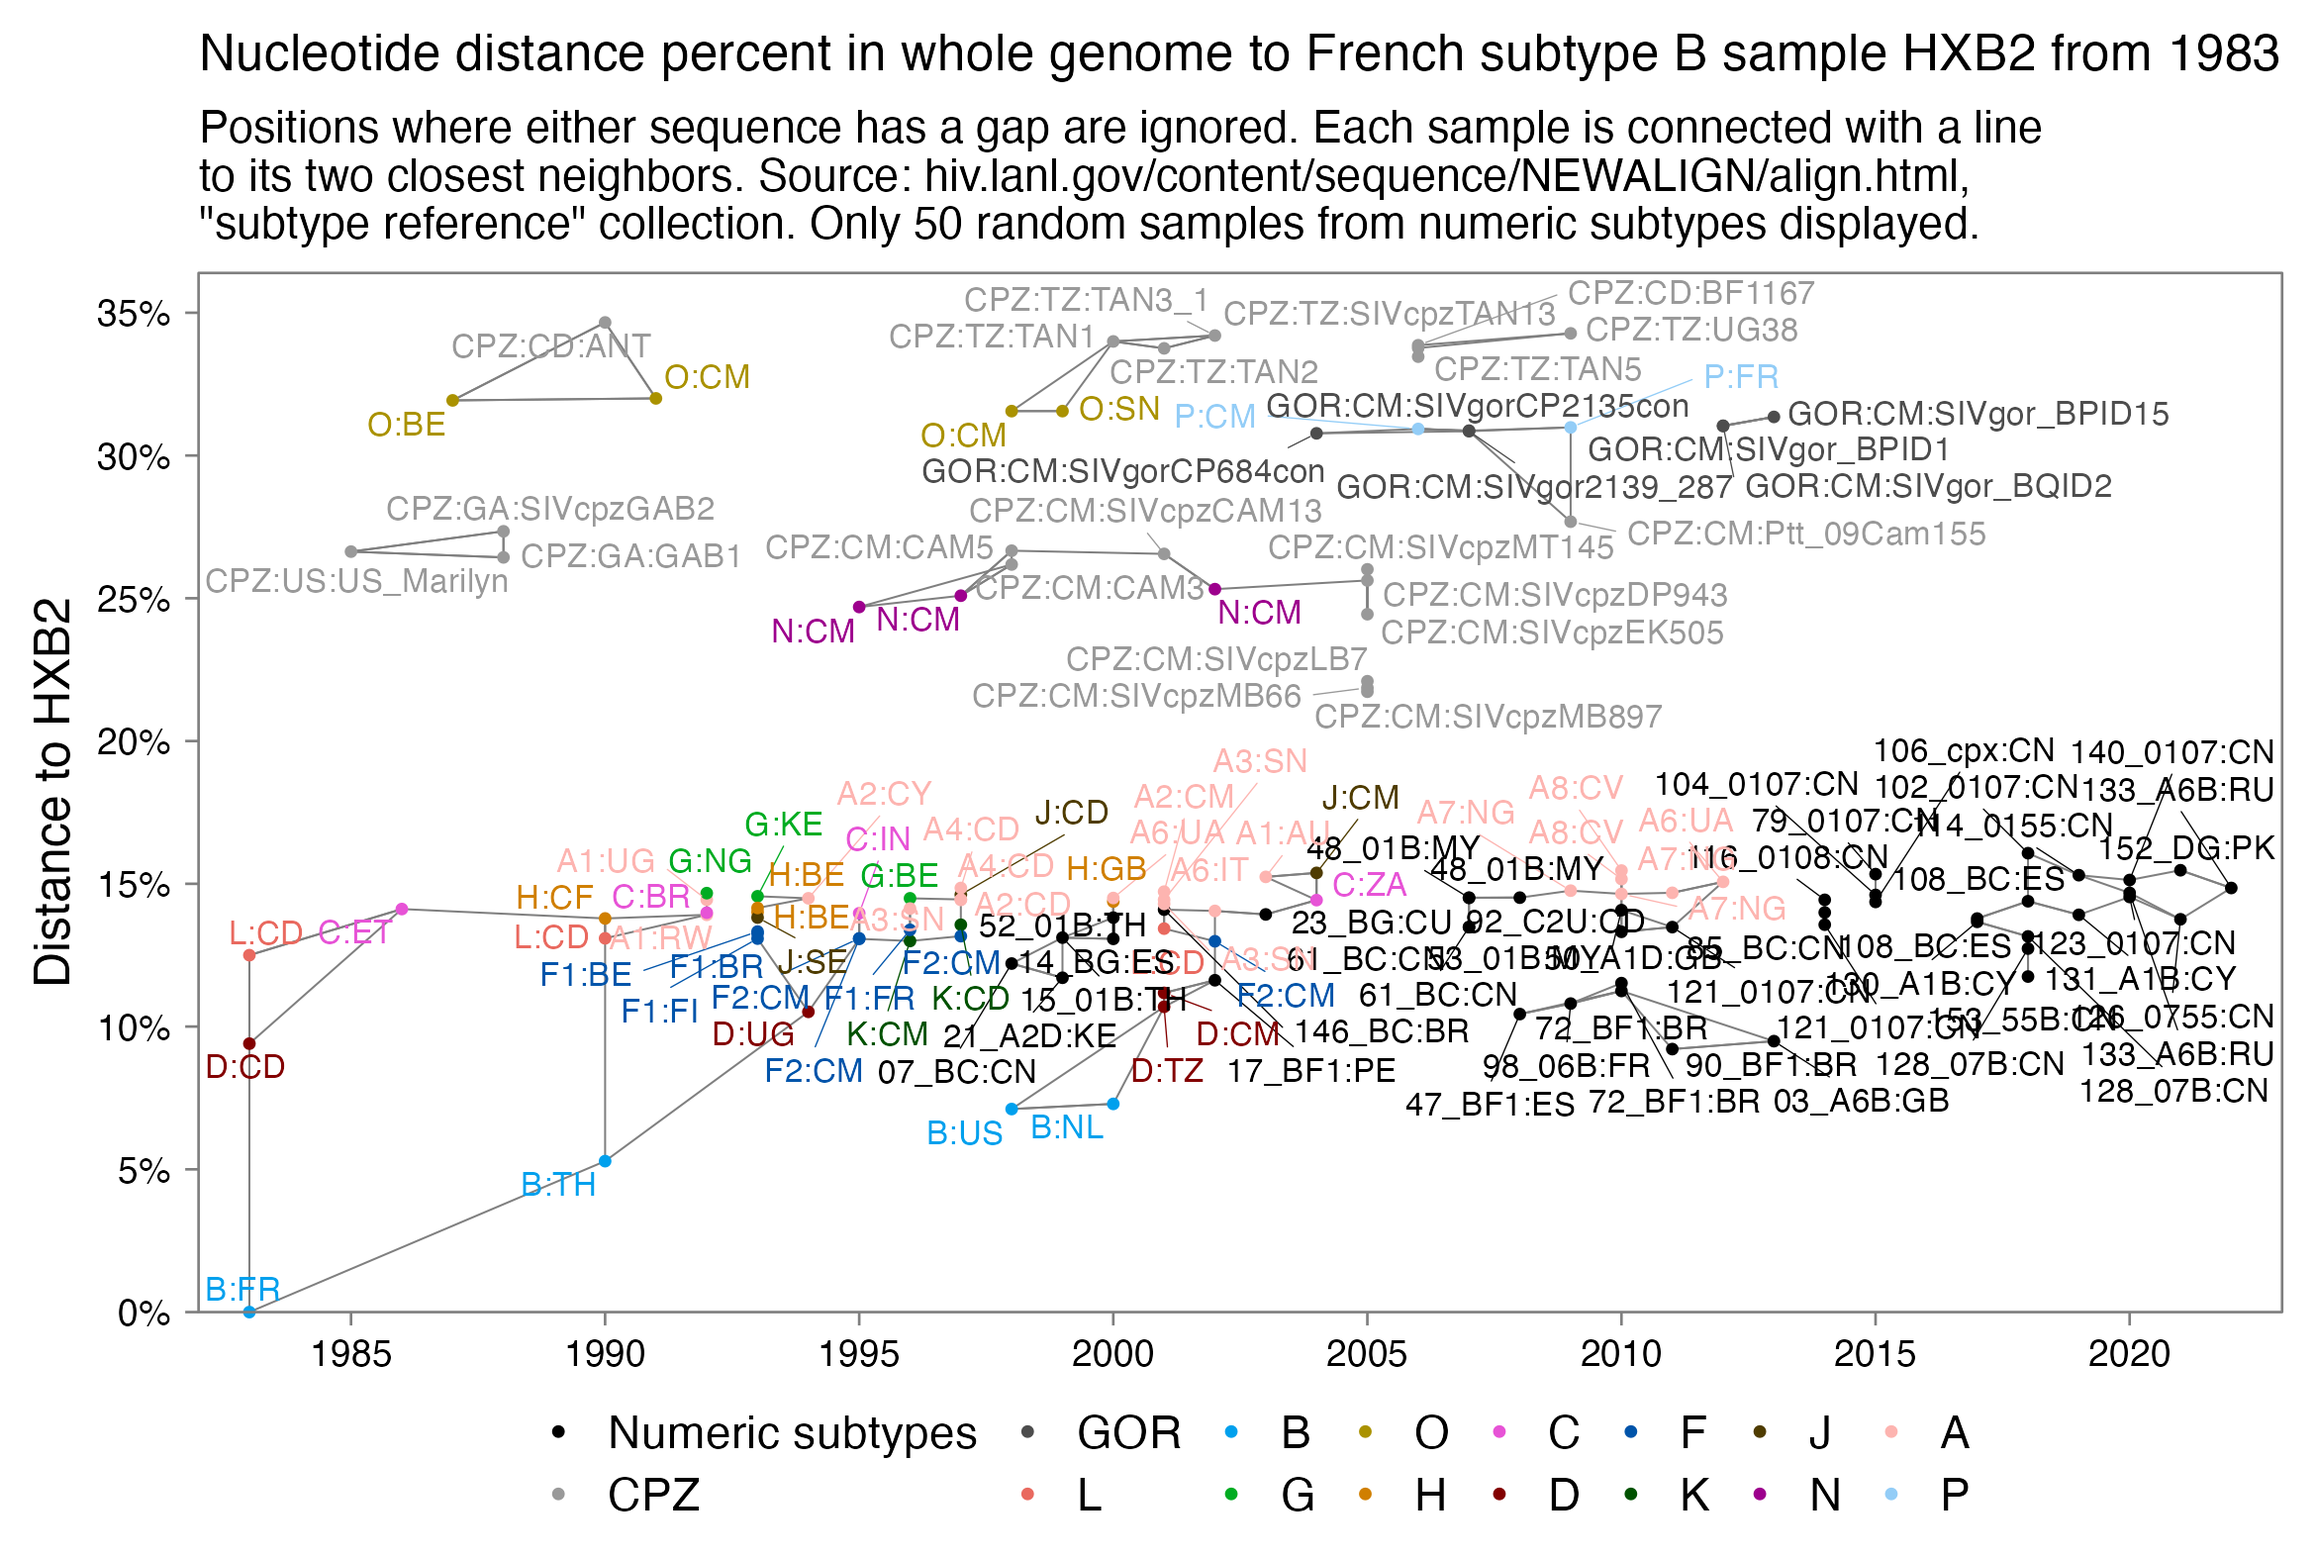
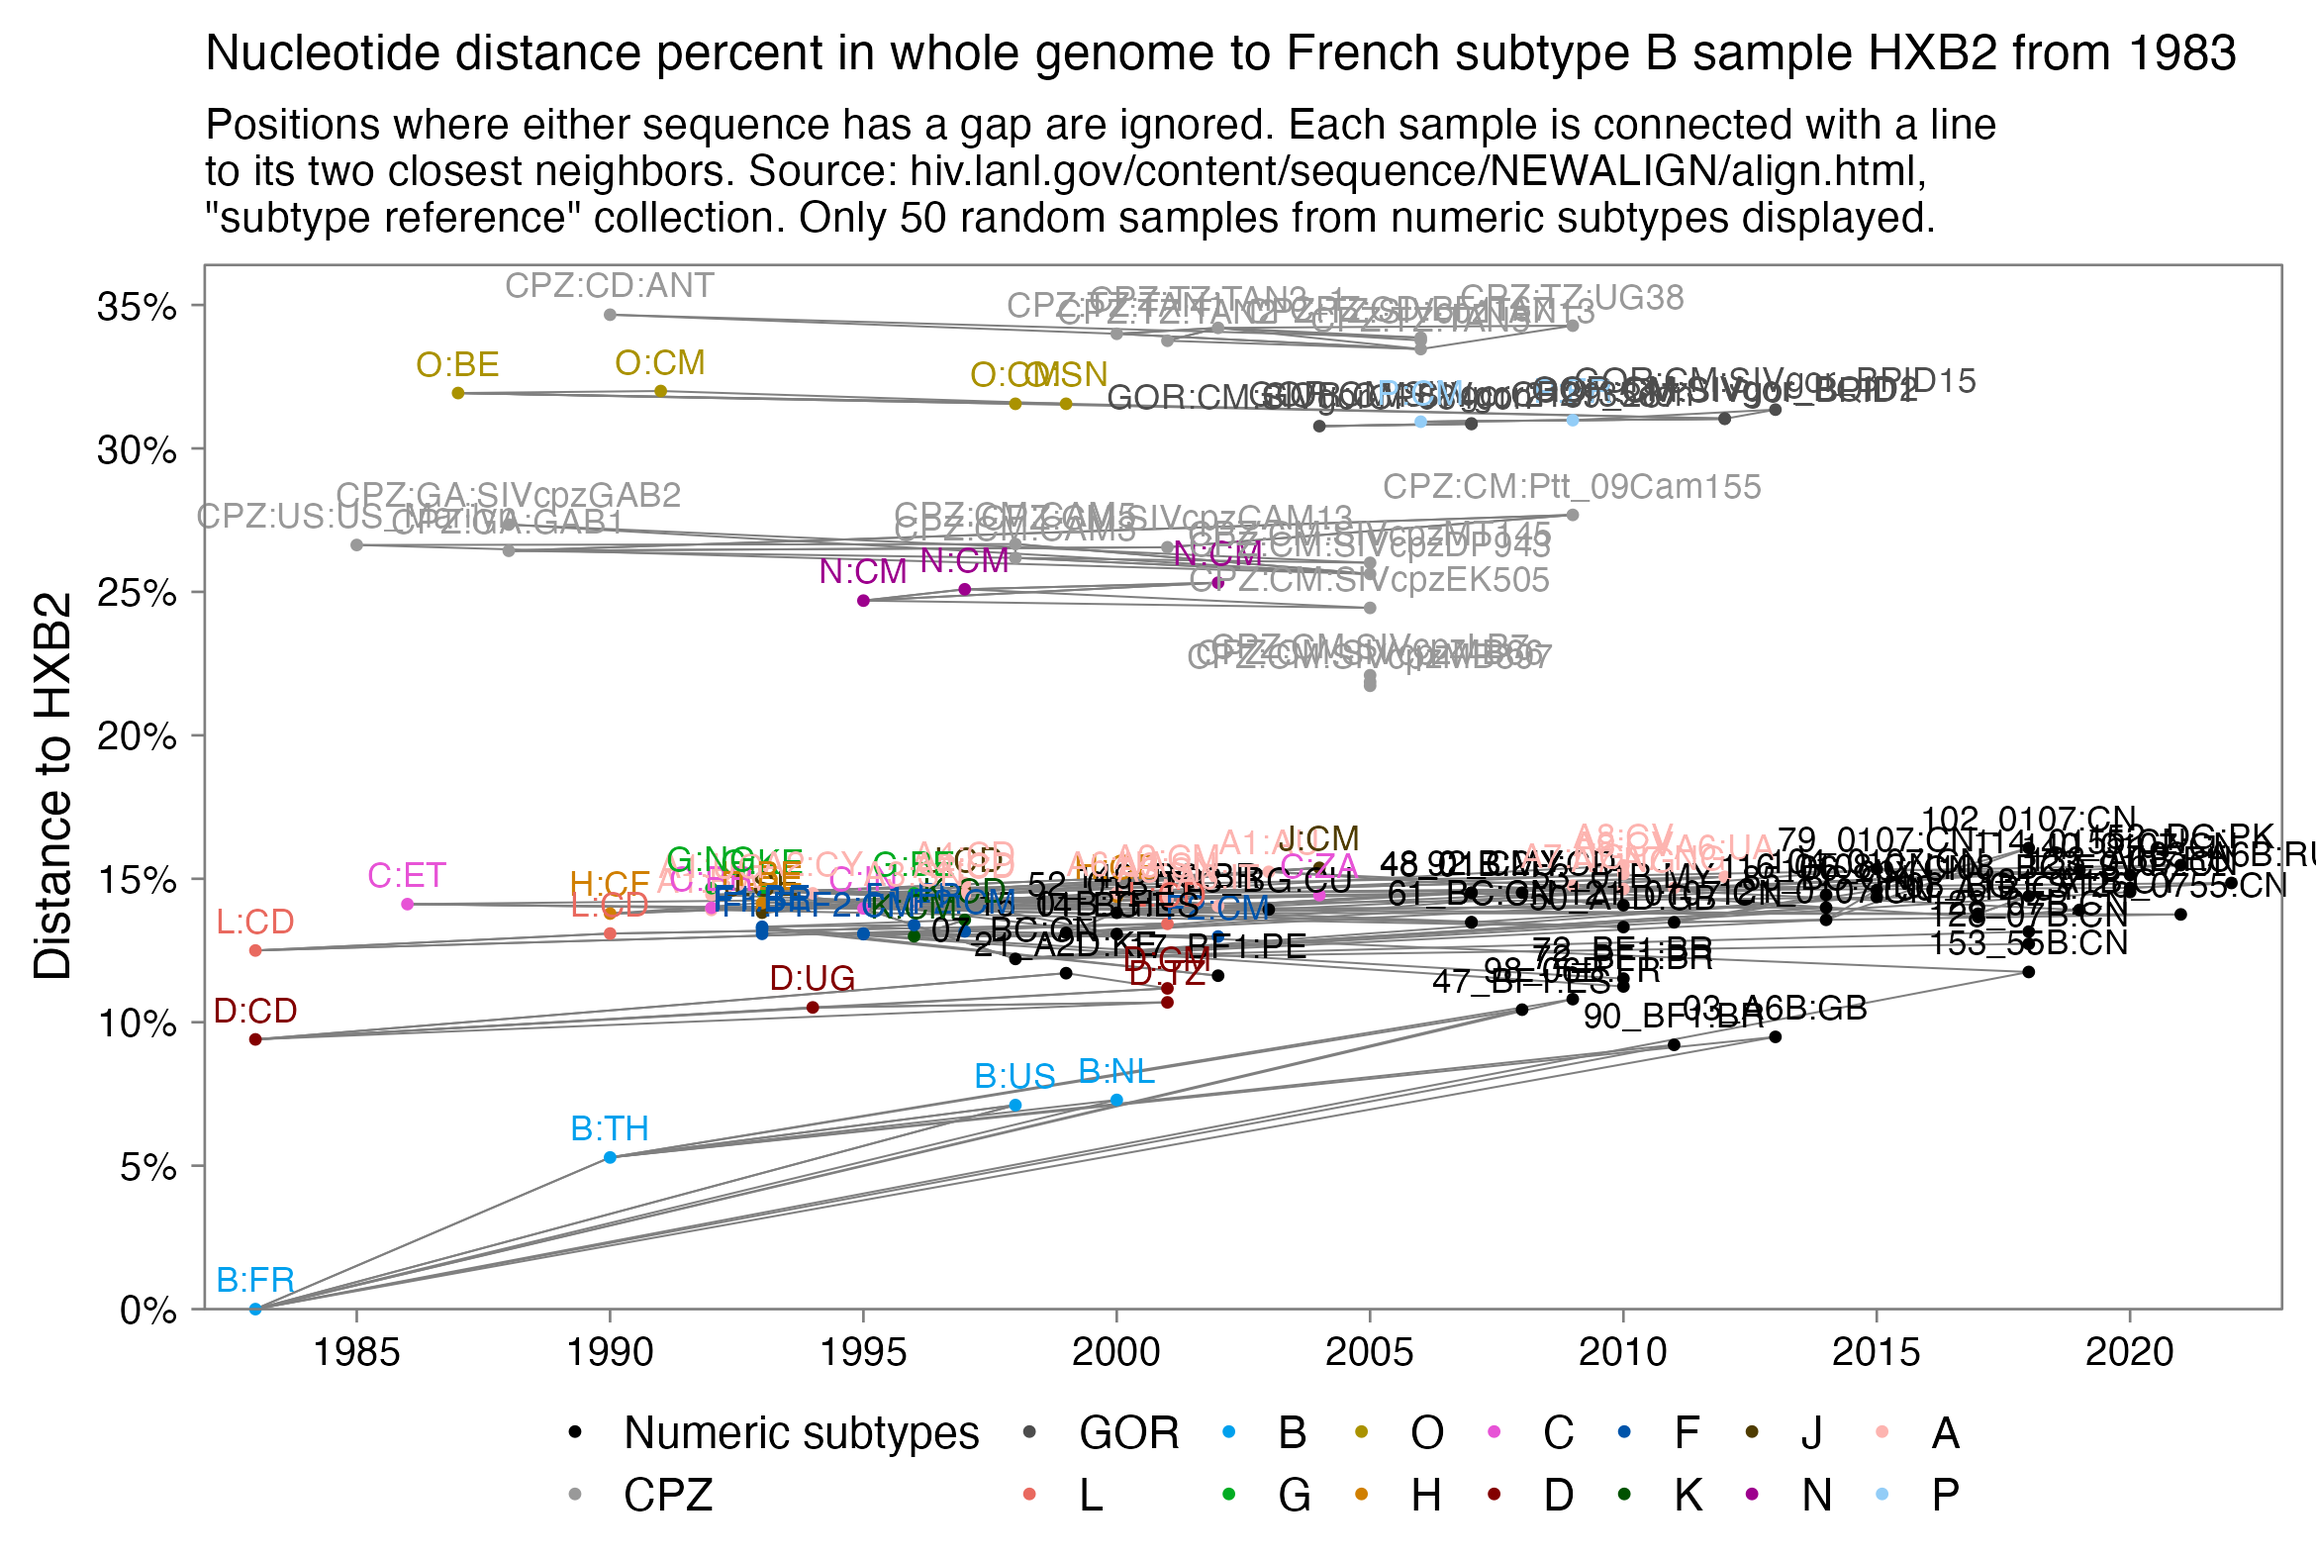
a

diff --git a/scripts.html b/scripts.html
@@ -2824,8 +2824,7 @@ type=factor(type,unique(c(&quot;Numeric subtypes&quot;,&quot;CPZ&quot;,&quot;GOR
 
 p=data.frame(x=year,y=t[,grep(&quot;HXB2&quot;,rownames(t))])
 
-seg=cbind(p[rep(1:nrow(p),each=2),],p[apply(as.matrix(dist(p)),1,\(x)order(x)[2:3]),])
-colnames(seg)=paste0(&quot;V&quot;,1:4)
+seg=cbind(p[rep(1:nrow(p),each=2),],p[apply(t,1,\(x)order(x)[2:3]),])|&gt;&quot;colnames&lt;-&quot;(paste0(&quot;V&quot;,1:4))
 
 ystart=0;yend=max(p$y)*1.05;xstart=min(p$x)-1;xend=max(p$x)+1
 
@@ -2835,15 +2834,15 @@ color=c(&quot;black&quot;,&quot;gray60&quot;,&quot;gray30&quot;,hcl(hue,100,60),
 ggplot(p,aes(x,y))+
 geom_segment(data=seg,aes(x=V1,y=V2,xend=V3,yend=V4),color=&quot;gray50&quot;,linewidth=.15)+
 geom_point(aes(color=type),size=.3)+
-## geom_text(aes(color=type),label=name,size=2,vjust=-.7,show.legend=F)+
-ggrepel::geom_text_repel(aes(color=type),label=name,size=1.9,max.overlaps=Inf,segment.size=.1,min.segment.length=.2,box.padding=.07,show.legend=F)+
+geom_text(aes(color=type),label=name,size=2,vjust=-.7,show.legend=F)+
+## ggrepel::geom_text_repel(aes(color=type),label=name,size=1.9,max.overlaps=Inf,segment.size=.1,min.segment.length=.2,box.padding=.07,show.legend=F)+
 coord_cartesian(clip=&quot;off&quot;,expand=F)+
 scale_x_continuous(limits=c(xstart,xend),breaks=seq(1980,2020,5))+
 scale_y_continuous(limits=c(ystart,yend),breaks=seq(0,yend,5),labels=\(x)paste0(x,&quot;%&quot;))+
 labs(x=NULL,y=&quot;Distance to HXB2&quot;,title=&quot;Nucleotide distance percent in whole genome to French subtype B sample HXB2 from 1983&quot;,subtitle=&quot;Positions where either sequence has a gap are ignored. Each sample is connected with a line to its two closest neighbors. Source: hiv.lanl.gov/content/sequence/NEWALIGN/align.html, \&quot;subtype reference\&quot; collection. Only 50 random samples from numeric subtypes displayed.&quot;|&gt;stringr::str_wrap(92))+
 scale_color_manual(values=color)+
 guides(color=guide_legend(nrow=2,override.aes=list(fill=NA)))+
-theme(axis.text=element_text(size=6,color=&quot;black&quot;),
+theme(axis.text=element_text(size=6.5,color=&quot;black&quot;),
   axis.ticks=element_line(linewidth=.2,color=&quot;gray50&quot;),
   axis.ticks.length=unit(.15,&quot;lines&quot;),
   axis.title=element_text(size=8),
@@ -2859,13 +2858,13 @@ theme(axis.text=element_text(size=6,color=&quot;black&quot;),
   legend.justification=c(.5,.5),
   legend.box.background=element_rect(fill=alpha(&quot;white&quot;,.8),color=&quot;gray70&quot;,linewidth=0),
   legend.margin=margin(.3,0,0,0,&quot;lines&quot;),
-  legend.text=element_text(size=7.5,vjust=.5),
+  legend.text=element_text(size=7.2,vjust=.5),
   legend.title=element_blank(),
   panel.border=element_rect(color=&quot;gray50&quot;,fill=NA,linewidth=.2),
   panel.grid=element_blank(),
   panel.background=element_rect(fill=&quot;white&quot;),
-  plot.title=element_text(size=8.3,margin=margin(0,0,.6,0,&quot;lines&quot;)),
-  plot.subtitle=element_text(size=7.2,margin=margin(0,0,.6,0,&quot;lines&quot;)))
+  plot.title=element_text(size=8.1,margin=margin(0,0,.6,0,&quot;lines&quot;)),
+  plot.subtitle=element_text(size=7,margin=margin(0,0,.6,0,&quot;lines&quot;)))
 ggsave(&quot;1.png&quot;,width=5.2,height=3.5,dpi=450)</pre>
 <div class="width9">
 <img src="i/scripts-hiv-yearxy.png">
